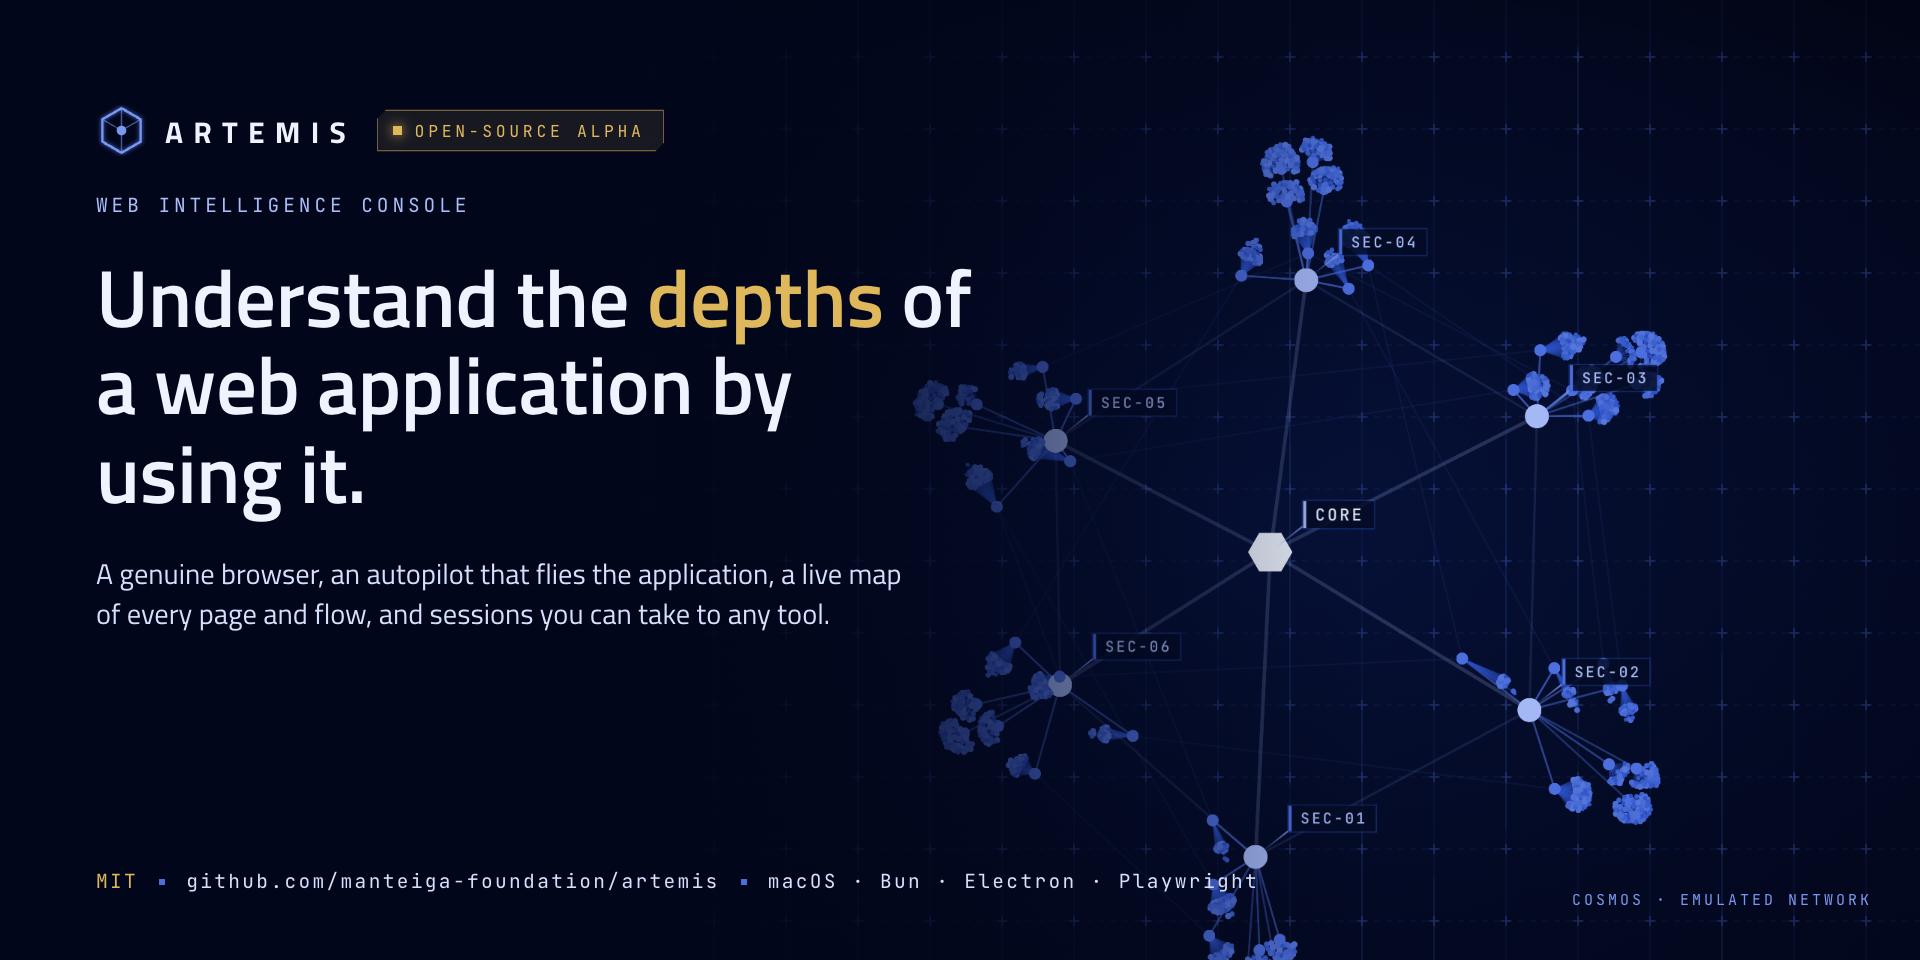
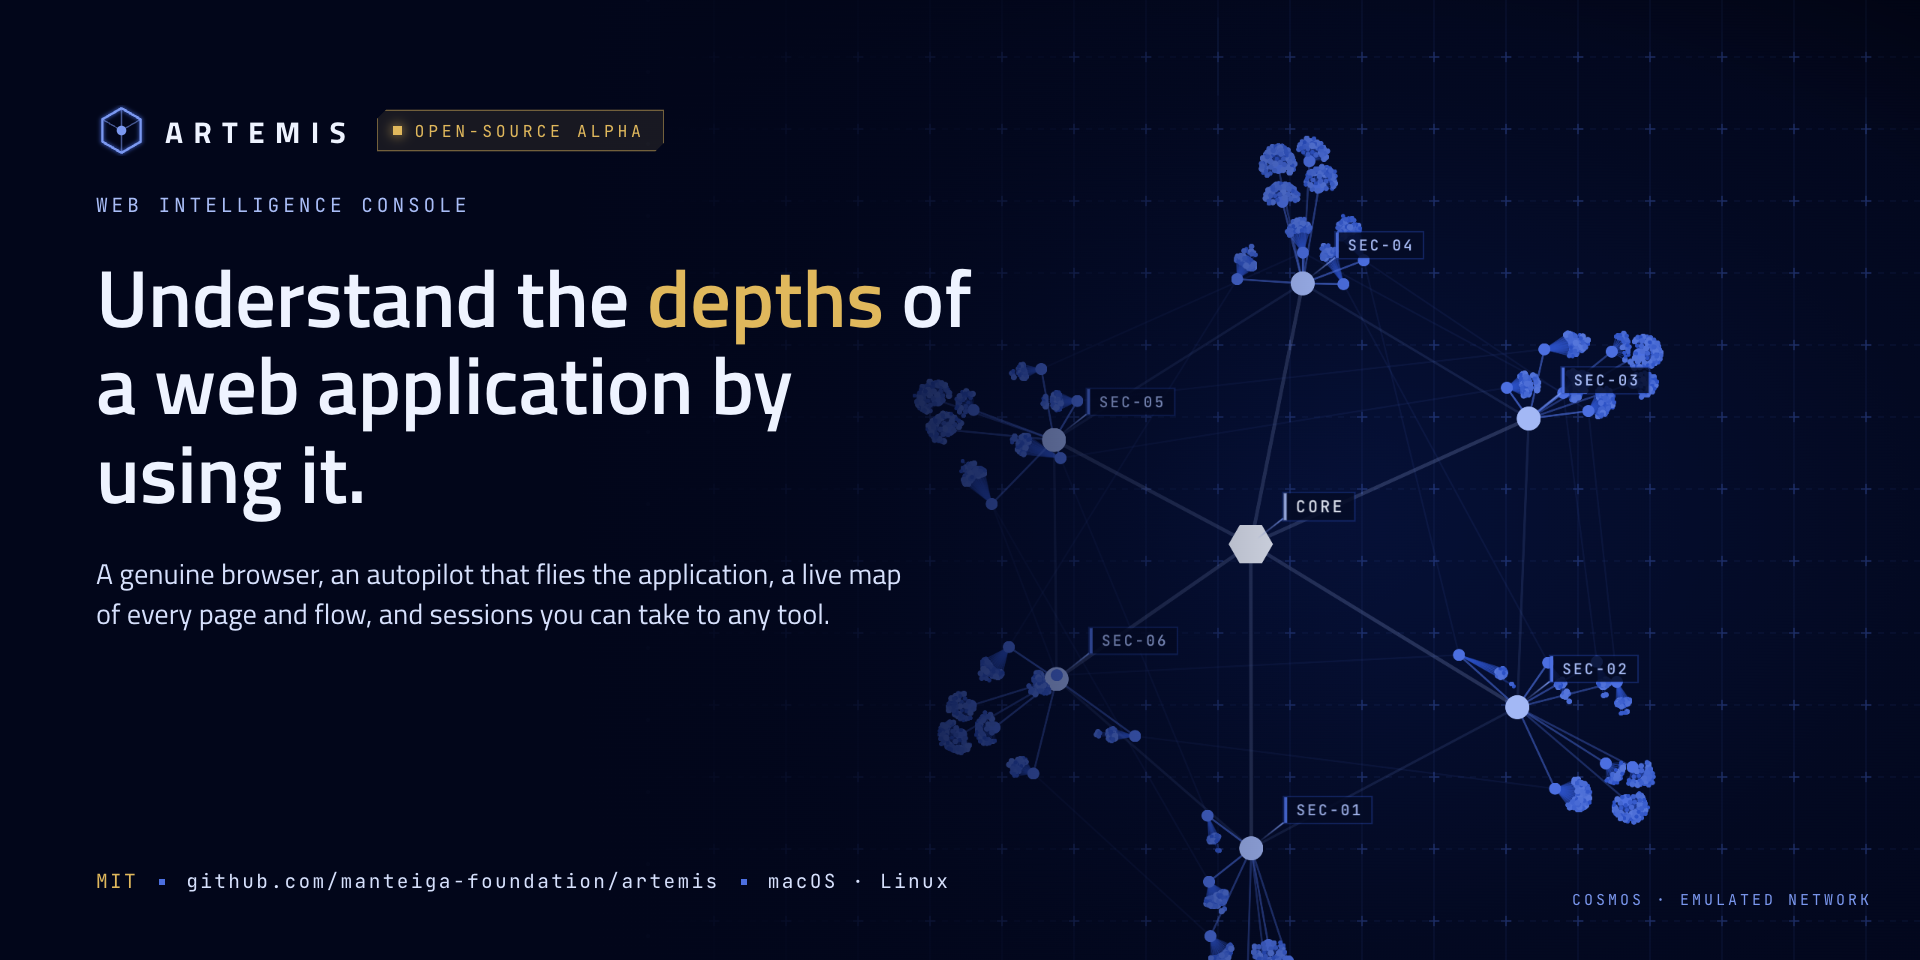
README: install first, under the hero; a copy pass; five badges; the hero says macOS and Linux

diff --git a/docs/readme/make.tsx b/docs/readme/make.tsx
@@ -209,7 +209,7 @@ const pages: Record<string, { w: number; h: number; body: string }> = {
       <h1 style="font-size:54px">Understand the <em>depths</em> of a web application by using it.</h1>
       <p style="font-size:19px;line-height:1.45;color:${C.frost};max-width:540px">A genuine browser, an autopilot that flies the application, a live map of every page and flow, and sessions you can take to any tool.</p>
     </div>
-    <div style="position:absolute;left:64px;bottom:44px">${foot('<i></i><span>macOS · Bun · Electron · Playwright</span>')}</div>
+    <div style="position:absolute;left:64px;bottom:44px">${foot('<i></i><span>macOS · Linux</span>')}</div>
     <div class="label" style="position:absolute;right:32px;bottom:34px;font-size:10px;color:${C.sky}">Cosmos · emulated network</div>` },
   features: { w: 1280, h: 420, body: `
     <div style="position:absolute;left:48px;top:36px;right:48px;display:grid;grid-template-columns:repeat(4,1fr);gap:26px">

diff --git a/README.md b/README.md
@@ -3,102 +3,47 @@
 </p>
 
 <p align="center">
-  <img src="docs/readme/dive.gif" alt="The dive: pressing V pulls back from the live page to the cosmos of the whole application, tours it, and returns to the page." width="100%">
-  <br>
-  <sub>One key, <b>V</b>: from the live page to the whole application and back. Recorded in an ordinary browser on the emulated network; <a href="docs/readme/dive.mp4">full-quality video</a>. The page shown is Wikipedia's Main Page (CC BY-SA 4.0).</sub>
+  <a href="#install">Install</a>&nbsp;&nbsp;·&nbsp;&nbsp;<a href="#what-it-does">What it does</a>&nbsp;&nbsp;·&nbsp;&nbsp;<a href="#status">Status</a>&nbsp;&nbsp;·&nbsp;&nbsp;<a href="#development">Development</a>&nbsp;&nbsp;·&nbsp;&nbsp;<a href="docs/status.md">Roadmap</a>
 </p>
-
-<p align="center">
-  <img src="docs/readme/features.png" alt="Genuine browser, Autopilot, Live cosmos, Open sessions." width="100%">
-</p>
-
-# Artemis
-
-Web intelligence console: understand the depths of a web application by using it.
-
-- **Genuine browser.** The site runs unmodified in a window Artemis owns; sign-in, MFA and dialogs
-  behave as in Chrome.
-- **Interceptor.** Every request and response, http and websocket, whole: status, size, time,
-  headers, bodies. Arm the proxy, hold a request, edit it, forward it or drop it, on key I.
-- **Autopilot.** Flies the application branch by branch while you watch, never signing out.
-- **Live cosmos.** Every page, flow and request mapped as it happens; `V` dives between the page and
-  the whole.
-- **Open sessions.** One SQLite database per session, a live HAR other tools replay signed in, and
-  video of the site and the console.
-
-## Alpha
-
-Artemis is alpha software. What is real today: the owned browser (an Electron window where the
-website runs as a genuine page behind the console), the session recording into one SQLite database
-per session, the live HAR written from it, videos of the site and the console, the autopilot that
-flies a site on its own, and the live Cosmos drawn from the recording.
-
-What is emulated, so the interface can be designed and tested before its functionality exists: in
-an ordinary browser (`bun run dev`) the Cosmos is a generated network of about 2,000 nodes; the
-Interceptor's panel and every action on a held request work, but its proxy does not listen on a port
-yet, so the traffic it shows is a sample capture until the owned browser's recorder fills it; the
-header's `T/S`, `N/S` and `R/S` are a simulated feed; and in the configuration view only the sound
-default is live. `docs/status.md` keeps the full list and the roadmap.
-
-Session files are recorded unmasked (cookies, tokens, typed values) and stay under `data/`, which
-git ignores; see `SECURITY.md`.
-
-![Status](https://img.shields.io/badge/status-alpha-e0b85c?style=flat-square)
-![License](https://img.shields.io/badge/license-MIT-1034a6?style=flat-square)
-[![CI](https://github.com/manteiga-foundation/artemis/actions/workflows/ci.yml/badge.svg)](https://github.com/manteiga-foundation/artemis/actions/workflows/ci.yml)
-![Tests](https://img.shields.io/badge/tests-267%20passing-005d2c?style=flat-square)
-![Bun](https://img.shields.io/badge/Bun-1.4-000000?style=flat-square&logo=bun&logoColor=white)
-![TypeScript](https://img.shields.io/badge/TypeScript-5.6-3178C6?style=flat-square&logo=typescript&logoColor=white)
-![React](https://img.shields.io/badge/React-18-20232A?style=flat-square&logo=react&logoColor=61DAFB)
-![Vite](https://img.shields.io/badge/Vite-6-646CFF?style=flat-square&logo=vite&logoColor=white)
-![Arwes](https://img.shields.io/badge/Arwes-1.0.0--alpha.23-0b1f66?style=flat-square)
-![cosmos.gl](https://img.shields.io/badge/cosmos.gl-3.4-071441?style=flat-square)
-![Playwright](https://img.shields.io/badge/Playwright-1.63-2EAD33?style=flat-square&logo=playwright&logoColor=white)
-![Electron](https://img.shields.io/badge/Electron-44-47848F?style=flat-square&logo=electron&logoColor=white)
-![Platform](https://img.shields.io/badge/platform-macOS%20%7C%20Linux-333333?style=flat-square)
-
-## Requirements
-
-macOS, or a Linux desktop (X11; a Wayland session through Xwayland), with `curl` and `tar`. The installer brings the rest:
-[Bun](https://bun.sh) 1.4 or newer if it is missing, Electron and Playwright's ffmpeg. For development from a clone: Bun,
-and a Chromium for Playwright (tests):
-
-```sh
-bunx playwright install chromium
-```
-
-Artemis is developed on macOS. On Linux the owned browser runs as an X11 client (through Xwayland
-in a Wayland session, where a native Wayland app cannot place the console over the site) and has
-been verified under X11 on Ubuntu 24.04 and in a Linux container (`docs/spikes/005-linux-desktop.md`;
-input under GNOME's Wayland compositor is not measured yet); the CI
-job runs the type-check, the build and the unit tests there. On Ubuntu 23.10 and later, AppArmor
-keeps Chromium's sandbox from Electron until it is allowed once: the installer asks, and runs
-`scripts/linux-sandbox.sh` with sudo (an AppArmor profile for Artemis's Electron, nothing else,
-kept across updates). Said no? Artemis still works, says at every launch that sites run without
-the sandbox, and the same step can be taken later:
-
-```sh
-sudo sh ~/.artemis/app/scripts/linux-sandbox.sh
-```
-
-It runs on a virtual display too (Xvfb, a VM without a GPU): WebGL then falls back to the CPU and
-the terminal says so.
-
-<img src="docs/screenshots/linux-cosmos-1600x1000.png" alt="Artemis on Ubuntu 24.04 on a virtual display: the cosmos of a site the autopilot flew" width="720">
 
 ## Install
 
-One command:
+On macOS or Linux, one command:
 
 ```sh
 curl -fsSL https://artemis.n30.ai/install.sh | sh
 ```
 
-It installs the latest release of Artemis into `~/.artemis` and the `artemis` command into
-`~/.local/bin` (added to your PATH once). Your profile (the logins of the sites you review) is
-`~/.artemis/profile` and the recorded sessions `~/.artemis/sessions`; `artemis update` fetches the
-latest release and keeps both. To remove Artemis, delete `~/.artemis` and `~/.local/bin/artemis`.
-The script is short and commented: read it first with `curl -fsSL <the same URL> -o install.sh`.
+Then open a website:
+
+```sh
+artemis example.com                  # open it in the browser Artemis owns
+artemis example.com --autopilot max  # and let the autopilot fly it
+```
+
+<table>
+  <tr><td><b>Installs</b></td><td>Bun if you do not have it, the latest release in <code>~/.artemis</code>, the <code>artemis</code> command in <code>~/.local/bin</code></td></tr>
+  <tr><td><b>Keeps</b></td><td>Your logins in <code>~/.artemis/profile</code>, your sessions in <code>~/.artemis/sessions</code></td></tr>
+  <tr><td><b>Updates</b></td><td><code>artemis update</code> replaces the app and keeps your logins and sessions</td></tr>
+  <tr><td><b>Removes</b></td><td>Delete <code>~/.artemis</code> and <code>~/.local/bin/artemis</code></td></tr>
+</table>
+
+> [!NOTE]
+> On Ubuntu 23.10 and later, the installer asks once for sudo so that Chromium's sandbox can run.
+> It adds an AppArmor profile for Artemis's browser and nothing else. If you decline, Artemis
+> still works and reminds you at each launch. To turn the sandbox on later:
+> `sudo sh ~/.artemis/app/scripts/linux-sandbox.sh`
+
+<details>
+<summary>Read the script first, or install a given version</summary>
+<br>
+
+The script is short and commented:
+
+```sh
+curl -fsSL https://artemis.n30.ai/install.sh -o install.sh && less install.sh
+```
+
 A given release, or the development branch:
 
 ```sh
@@ -106,61 +51,130 @@ curl -fsSL https://artemis.n30.ai/install.sh | ARTEMIS_VERSION=v0.3.0 sh
 curl -fsSL https://artemis.n30.ai/install.sh | ARTEMIS_VERSION=main sh
 ```
 
-```sh
-artemis example.com                  # open the website in the browser Artemis owns
-artemis example.com --autopilot max  # and fly it on its own
-artemis --help
-```
+To work on Artemis itself, see [Development](#development).
+</details>
 
-For development, from a clone:
+<p align="center">
+  <img src="docs/readme/dive.gif" alt="The dive: pressing V pulls back from the live page to the cosmos of the whole application, tours it, and returns to the page." width="100%">
+  <br>
+  <sub>One key, <b>V</b>: from the live page to the whole application and back. Recorded in an ordinary browser on the emulated network; <a href="docs/readme/dive.mp4">full-quality video</a>. The page shown is Wikipedia's Main Page (CC BY-SA 4.0).</sub>
+</p>
+
+## What it does
+
+<p align="center">
+  <img src="docs/readme/features.png" alt="Genuine browser, Autopilot, Live cosmos, Open sessions." width="100%">
+</p>
+
+- **Genuine browser.** The site runs unmodified in a window Artemis owns. Sign-in, a second
+  sign-in factor (MFA) and dialogs behave as they do in Chrome.
+- **Autopilot.** It flies the application branch by branch while you watch, and never signs out.
+- **Live cosmos.** Every page and request is mapped as you browse. Press <kbd>V</kbd> to pull back
+  from the page to the whole application, and again to return.
+- **Open sessions.** Each session is one SQLite database, a live HAR that other tools replay signed
+  in, and a video of the site and the console.
+- **Interceptor** (in progress). Press <kbd>I</kbd> to read every request and response, http and
+  websocket, with headers and bodies. Holding, editing and dropping requests work in the panel;
+  the proxy that does it on the wire comes next.
+
+<p>
+  <img alt="Status: alpha" src="https://img.shields.io/badge/status-alpha-e0b85c?style=flat-square">
+  <a href="https://github.com/manteiga-foundation/artemis/releases/latest"><img alt="Latest release" src="https://img.shields.io/github/v/release/manteiga-foundation/artemis?style=flat-square&color=005d2c&label=release"></a>
+  <img alt="Platform: macOS and Linux" src="https://img.shields.io/badge/platform-macOS%20%7C%20Linux-333333?style=flat-square">
+  <img alt="License: MIT" src="https://img.shields.io/badge/license-MIT-1034a6?style=flat-square">
+  <a href="https://github.com/manteiga-foundation/artemis/actions/workflows/ci.yml"><img alt="CI" src="https://github.com/manteiga-foundation/artemis/actions/workflows/ci.yml/badge.svg"></a>
+</p>
+
+## Status
+
+Artemis is alpha software. The interface is designed and tested first, on emulated data; each
+feature then fills the shape that is already there.
+
+**Real today**
+- The owned browser: an Electron window with the site running as a genuine page behind the console.
+- Session recording: one SQLite database per session, with a live HAR written from it.
+- Videos of the site and of the console.
+- The autopilot, which flies a site on its own.
+- The live cosmos, drawn from the recording.
+
+**Emulated for now**
+- In an ordinary browser (`bun run dev`), the cosmos is a generated network of about 2,000 nodes.
+- The Interceptor's proxy does not listen on a port yet. Until the recorder feeds it, the panel
+  shows a sample capture.
+- The header's `T/S`, `N/S` and `R/S` readouts are simulated.
+- In the configuration view, only the sound setting is live.
+
+`docs/status.md` has the full list and the roadmap. Sessions are recorded unmasked (cookies,
+tokens, typed values) and stay on your machine; see `SECURITY.md`.
+
+## Requirements
+
+- **macOS**, or a **Linux desktop**: X11, or Wayland through Xwayland.
+- `curl` and `tar`. The installer brings the rest: Bun 1.4 or newer, Electron and Playwright's
+  ffmpeg.
+
+On Linux, Artemis is verified on Ubuntu 24.04 and in a Linux container. Input under GNOME's
+Wayland session is not measured yet. It also runs on a virtual display (Xvfb, or a VM without a
+GPU). There, the cosmos is drawn by the CPU and the terminal says so. Details:
+`docs/console.md`, section "Linux".
+
+<p align="center">
+  <img src="docs/screenshots/linux-cosmos-1600x1000.png" alt="Artemis on Ubuntu 24.04 on a virtual display: the cosmos of a site the autopilot flew" width="720">
+  <br>
+  <sub>Ubuntu 24.04 on a virtual display: the cosmos of a bookshop the autopilot flew.</sub>
+</p>
+
+## Development
+
+Artemis is built with Bun 1.4, TypeScript, React 18, Vite 6, Arwes, cosmos.gl, Playwright 1.63 and
+Electron 44. From a clone, with [Bun](https://bun.sh) and a Chromium for the tests:
 
 ```sh
 git clone https://github.com/manteiga-foundation/artemis.git
 cd artemis
 bun install
+bunx playwright install chromium
 ```
 
-## Run
-
-Development server (open http://127.0.0.1:5173):
+Run the console in a browser, at http://127.0.0.1:5173:
 
 ```sh
 bun run dev
 ```
 
-The browser Artemis owns (recommended): an Electron window where the website runs as a genuine
-browser page behind the console, so sign-in flows, MFA, menus and dialogs behave as in any
-browser. It starts the development server itself if nothing answers on the port:
+Or run it in the browser Artemis owns. This starts the development server itself if nothing
+answers on the port:
 
 ```sh
-bun run artemis                              # ARTEMIS_PORT=5179 bun run artemis  to use another port
-bun run artemis example.com                  # engage the website at once
-bun run artemis example.com --autopilot max  # and fly it on its own: slow, regular or max (-a, 1-3)
+bun run artemis                              # ARTEMIS_PORT=5179 bun run artemis to use another port
+bun run artemis example.com                  # open the website at once
+bun run artemis example.com --autopilot max  # and fly it: slow, regular or max (-a, 1-3)
 bun run artemis --help
 ```
 
-The terminal opens with a large ARTEMIS welcome and what the run is, then one notification per
-event: the session's database and live HAR with their full paths the moment they exist, the
-autopilot's flight, closing, the files saved. `NO_COLOR=1` for plain text.
+The terminal opens with a large ARTEMIS welcome. Then it shows one line per event: the session's
+database and live HAR as soon as they exist, the autopilot's flight, and the files saved at the
+end. Set `NO_COLOR=1` for plain text.
 
 ![The launcher's terminal](docs/screenshots/terminal.png)
 
-Its profile (cookies, logins) persists under `data/shell-profile`, which is ignored by git (the
-installed `artemis` keeps it in `~/.artemis/profile` instead).
+The development profile (cookies, logins) lives in `data/shell-profile`, which git ignores. The
+installed `artemis` keeps it in `~/.artemis/profile` instead. The experiments page, with sounds
+and a per-action picker, is at http://127.0.0.1:5173/debug.
 
-Experiments page (sounds, with a per-action picker): http://127.0.0.1:5173/debug
-
-## Verify
+Check your work:
 
 ```sh
-bun run check              # type-check app, server and the Electron shell
-bun run test               # unit tests + Playwright tests in real Chromium and Electron (several minutes)
+bun run check              # type-check the app, the server and the Electron shell
+bun run test               # unit tests, and Playwright tests in real Chromium and Electron (several minutes)
 bun run test:unit          # only the tests that need no browser or GPU, as CI runs them on Linux
-bun run build              # check + production bundle in dist/
+bun run build              # check, then the production bundle in dist/
 bun run preview            # serve dist/ at http://127.0.0.1:4173
 ```
 
-## Screenshots and measurements
+<details>
+<summary>Screenshots and measurements</summary>
+<br>
 
 With a development server running on `<port>`:
 
@@ -176,30 +190,31 @@ bun run scripts/har.ts <session.sqlite> [out.har]               # a session's HA
 bun run docs/readme/make.tsx <port> [site]                      # the README's hero, features band and dive (GIF, MP4; needs ffmpeg)
 ```
 
-Default output directory is `docs/screenshots/`.
+The default output folder is `docs/screenshots/`.
+</details>
 
 ## The Interceptor
 
-Key **I** (a slot on the command card) opens the traffic inspector and proxy over whatever view you are in: every request and
-response between the browser and the site, http and websocket, whole — status, size, time, headers
-and bodies. Arm the proxy and every request stops there: read it, edit its method, address, headers or
-body, then forward it or drop it; hold everything as it arrives, or send the whole queue on. The
-actions are the panel's own buttons; the command card is untouched. `I` or `Esc` closes it.
+Press <kbd>I</kbd> to open the traffic inspector and proxy over any view. It lists every request
+and response between the browser and the site, http and websocket, with status, size, time,
+headers and bodies. Arm the proxy and each request stops there. You can read it, edit its method,
+address, headers or body, then forward it or drop it. You can also hold everything as it arrives,
+or send the whole queue on. <kbd>I</kbd> or <kbd>Esc</kbd> closes it.
 
-The panel works and is tested end to end, but the proxy does not listen on a port yet: the traffic
-it opens on is a sample capture, replaced by the owned browser's recording as it is fed. The
+The panel works and is tested end to end. The proxy does not listen on a port yet, so the panel
+opens on a sample capture, which the owned browser's recording replaces as it arrives. The
 listening proxy is the next slice.
 
 ![The Interceptor](docs/screenshots/interceptor.png)
 
 ## More
 
-- `AGENTS.md` — how this repository is worked on: methodology, vocabulary, conventions, decisions.
-- `CONTRIBUTING.md` — how to contribute: the red-first loop, gates, platforms and CI.
-- `SECURITY.md` — how to report a security problem, and what the session files contain.
-- `docs/status.md` — what is built, what is emulated, what comes next.
-- `docs/console.md` — notes on the console as built: views, layout, commands, tests, browser approach.
-- `docs/spikes/` — validated experiments kept for reference.
+- `AGENTS.md`: how this repository is worked on (method, vocabulary, conventions, decisions).
+- `CONTRIBUTING.md`: how to contribute (the red-first loop, the gates, platforms and CI).
+- `SECURITY.md`: how to report a security problem, and what the session files contain.
+- `docs/status.md`: what is built, what is emulated, what comes next.
+- `docs/console.md`: notes on the console as built (views, layout, commands, tests).
+- `docs/spikes/`: validated experiments, kept for reference.
 
 ## Licence
 
